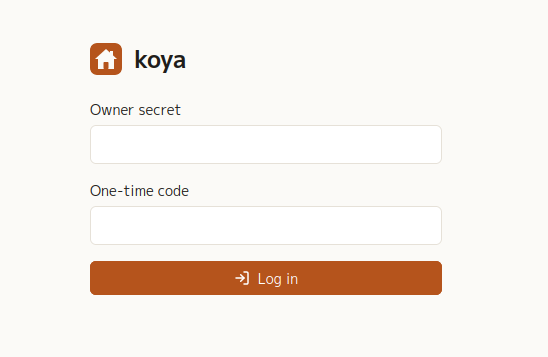
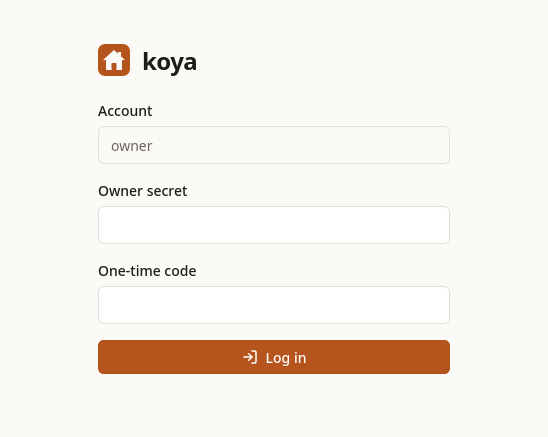
The login form names a fixed account, owner, so password managers save the secret (#184)

diff --git a/assets/style/global.css b/assets/style/global.css
@@ -46,6 +46,9 @@ body {
 .input {
   @apply w-full rounded-md border border-line bg-panel px-3 py-2 text-sm text-fg focus:border-accent focus:outline-none;
 }
+.input[readonly] {
+  @apply bg-base text-muted;
+}
 /* Form selects keep the browser's own look; preflight would strip their border and background. */
 select {
   all: revert;

diff --git a/docs/ADMIN-UI.md b/docs/ADMIN-UI.md
@@ -38,6 +38,10 @@ started with — and, when two-factor login is on, for the current **one-time
 code** from an authenticator app. There are no user accounts: whoever knows the
 secret is the owner.
 
+- Above the secret stands a fixed **Account**, `owner`, which cannot be changed
+  and is not read. It is there for password managers, which keep a password
+  under an account name: the secret is saved as the password of `owner` on the
+  server's address, and the one-time code can be saved with it.
 - A failed attempt never says which of the two was wrong. A wrong secret locks
   nobody out: the secret is at least 32 characters, too long to guess.
 - A one-time code is short enough to guess, so after five wrong codes within
